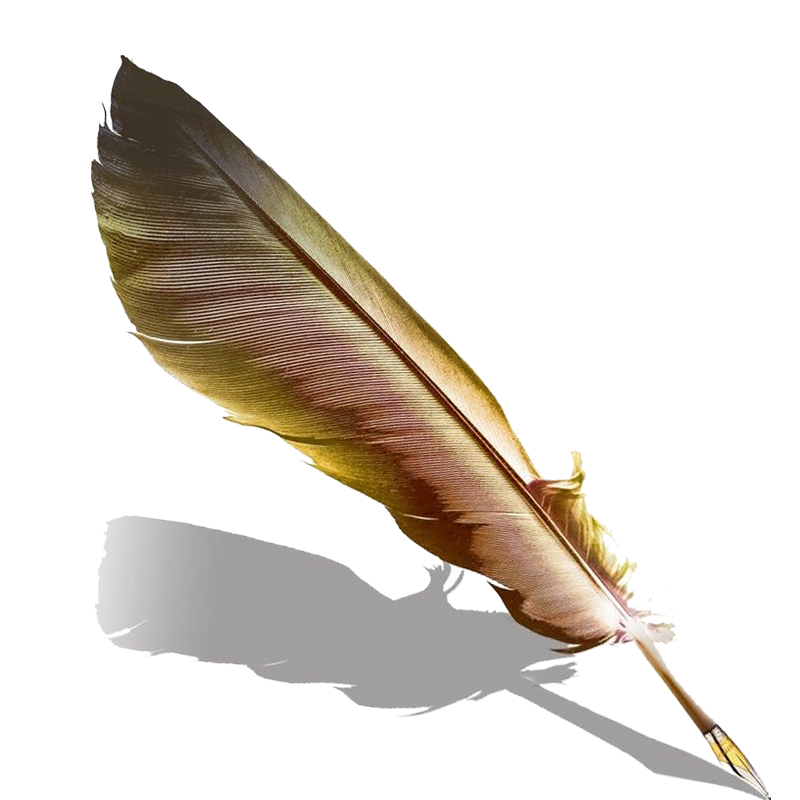
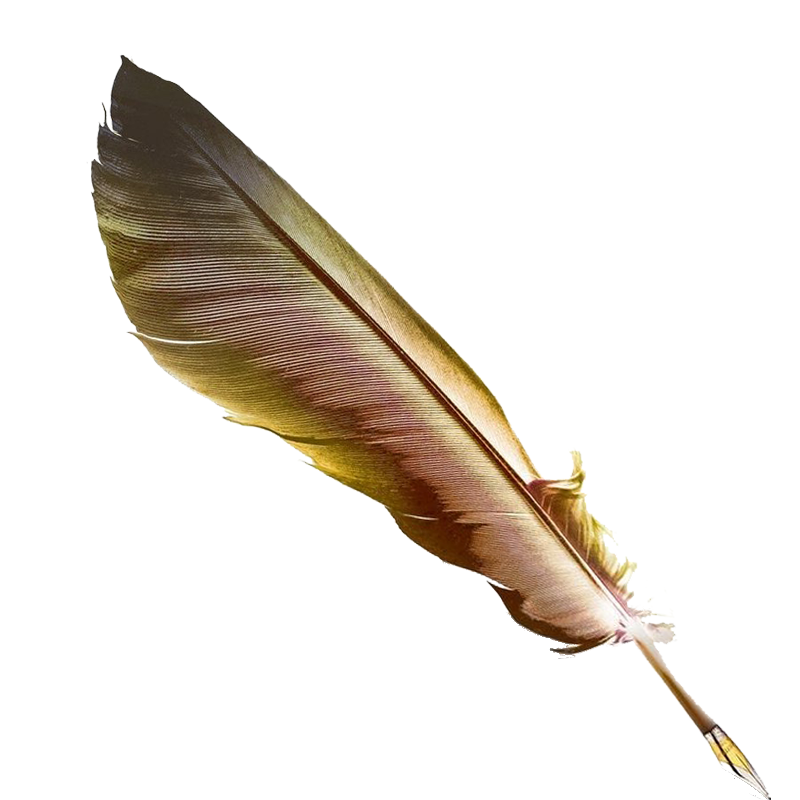
Beautify top bar
Also lowered resolution of the icon.
Edited quill's positioning and removed its png shadow.

Changed region(s): [[0.0938, 0.625, 0.9688, 1.0]]

diff --git a/src/lib/Layout.svelte b/src/lib/Layout.svelte
@@ -5,21 +5,38 @@
 <style lang="postcss">
     :global(html, body) {
         min-height: 100vh;
-        display: flex;
-        flex-direction: column;
+        @apply flex flex-col;
+        @apply overflow-x-hidden;
+    }
+    nav > a:hover {
+        @apply bg-amber-500;
+    }
+    .logo {
+        width: 76px;
+        height: 64px;
+        image-rendering: pixelated;
     }
 </style>
 
-<nav class="flex sticky top-0 z-10 gap-4 items-center p-4 w-full backdrop-blur-3xl h-18 bg-white/50">
-    <img src="/logo.png" alt="A pixel art of a red fox sleeping" />
-    <p class="text-2xl font-bold">lisek.dev</p>
-    <a href="/">Home</a>
-    <a href="/about">About</a>
-</nav>
+<header class="grid sticky top-0 z-10 grid-cols-3 gap-4 justify-between items-center px-8 h-20 backdrop-blur-3xl justify-items-between bg-white/50">
+    <a class="flex gap-4 justify-self-start items-center text-6xl" href="/">
+        <img class="logo" src="/logo.png" alt="A pixel art of a red fox sleeping" />
+        <p style="font-family: 'VT323', monospace;">lisek.dev</p>
+    </a>
+    <nav class="flex justify-self-center h-full text-xl">
+        <a class="flex items-center px-8 rounded-l-xl" href="/">Home</a>
+        <a class="flex items-center px-8 rounded-r-xl" href="/about">About</a>
+    </nav>
+    <div class="flex overflow-hidden justify-self-end bg-black rounded-full cursor-pointer">
+        <div class="w-8 h-8" onclick="toggleDarkMode()" />
+        <div class="w-8 h-8" onclick="toggleDarkMode()" />
+        <div class="absolute w-8 h-8 bg-amber-500 rounded-full"></div>
+    </div>
+</header>
 
 <slot />
 
-<footer class="flex flex-col gap-2 items-center px-16 py-4 m-auto rounded-2xl backdrop-blur-3xl w-fit bg-white/50">
+<footer class="flex flex-col gap-2 items-center px-16 py-4 backdrop-blur-3xl bg-white/50">
     <p>© 2023 lisek.dev | All rights reserved.</p>
     <p>Made with ❤ in Svelte</p>
 </footer>

diff --git a/src/routes/(app)/about/+page.svelte b/src/routes/(app)/about/+page.svelte
@@ -8,10 +8,6 @@
 </script>
 
 <style lang="postcss">
-    #paper-wrap {
-        filter: drop-shadow(6px 14px 10px rgb(0 0 0 / 0.1));
-        transform: rotate(-2deg);
-    }
     .paper {
         @apply text-3xl;
         @apply rounded;
@@ -20,7 +16,7 @@
         background-size: 864px 2.25rem;
         clip-path: polygon(0 0, 0 100%, 100% 100%, 100% 192px, 768px 0);
         padding: 5rem 120px;
-        font-family: Caveat, cursive;
+        font-family: 'Caveat', cursive;
         &:before {
             @apply top-0 right-0;
             @apply w-48 h-48;
@@ -47,7 +43,7 @@
     /* TODO: add animated link underline */
 </style>
 
-<div id="paper-wrap">
+<div class="drop-shadow-xl -rotate-2">
     <div style="width: {size_x}px; height: {size_y}px;" class="paper">
         <h1 class="pb-7 text-7xl font-semibold text-center">About me!</h1>
         <h2>Hi! I'm Camille. The very owner of this page!</h2>
@@ -74,6 +70,6 @@
             <p>Fediverse: <a href="https://kitsunes.club/@honey" target="_blank" rel="noopener noreferrer">honey@kitsunes.club</a></p>
             <p>Matrix: <a href="https://matrix.org/" target="_blank" rel="noopener noreferrer">@honey:kitsunes.club</a></p>
         </div>
-        <img class="absolute bottom-16 pointer-events-none" style="transform: scaleX(-1);" src="quill.png" alt="A quill" />
     </div>
+    <img class="absolute -right-96 bottom-96 drop-shadow-2xl pointer-events-none -scale-x-75" src="quill.png" alt="A quill" />
 </div>

diff --git a/src/routes/(app)/+page.svelte b/src/routes/(app)/+page.svelte
@@ -11,11 +11,11 @@
 
 <div class="flex overflow-hidden flex-col gap-4 items-center pb-4 mx-auto rounded-2xl backdrop-blur-3xl w-fit bg-white/50">
     <div class="flex gap-2 self-stretch p-2 backdrop-blur-3xl bg-white/50">
-        <div class="p-2 bg-red-500 rounded-full hover:bg-red-600 active:bg-red-700"></div>
-        <div class="p-2 bg-yellow-500 rounded-full hover:bg-yellow-600 active:bg-yellow-700"></div>
-        <div class="p-2 bg-green-500 rounded-full hover:bg-green-600 active:bg-green-700"></div>
+        <div class="p-2 bg-red-500 rounded-full hover:bg-red-600 active:bg-red-700" />
+        <div class="p-2 bg-yellow-500 rounded-full hover:bg-yellow-600 active:bg-yellow-700" />
+        <div class="p-2 bg-green-500 rounded-full hover:bg-green-600 active:bg-green-700" />
         <p class="text-xs font-bold text-center basis-full">Page under construction!</p>
-        <div class="w-16"></div>
+        <div class="w-16" /> <!-- Normalizer to center the title -->
     </div>
     <img class="px-16 logo" src="logo.png" alt="A pixel art of a red fox sleeping" />
     <p>Please have a look at this cute fox in the meantime :)</p>

diff --git a/src/app.html b/src/app.html
@@ -8,7 +8,7 @@
 		<link rel="icon" href="%sveltekit.assets%/icon.png" />
 		<link rel="preconnect" href="https://fonts.googleapis.com" />
 		<link rel="preconnect" href="https://fonts.gstatic.com" crossorigin="anonymous" />
-		<link href="https://fonts.googleapis.com/css2?family=Caveat:wght@400;500;600;700&display=swap" rel="stylesheet" />
+		<link href="https://fonts.googleapis.com/css2?family=Caveat:wght@400;500;600;700&family=VT323&display=swap" rel="stylesheet" />
 		%sveltekit.head%
 	</head>
 	<body data-sveltekit-preload-data="hover">

diff --git a/src/routes/(app)/+layout.svelte b/src/routes/(app)/+layout.svelte
@@ -11,7 +11,7 @@
 </style>
 
 <Layout>
-<main class="flex flex-col gap-2 justify-center items-center py-16 grow">
-    <slot />
-</main>
+    <main class="flex flex-col gap-2 justify-center items-center py-16 grow">
+        <slot />
+    </main>
 </Layout>
